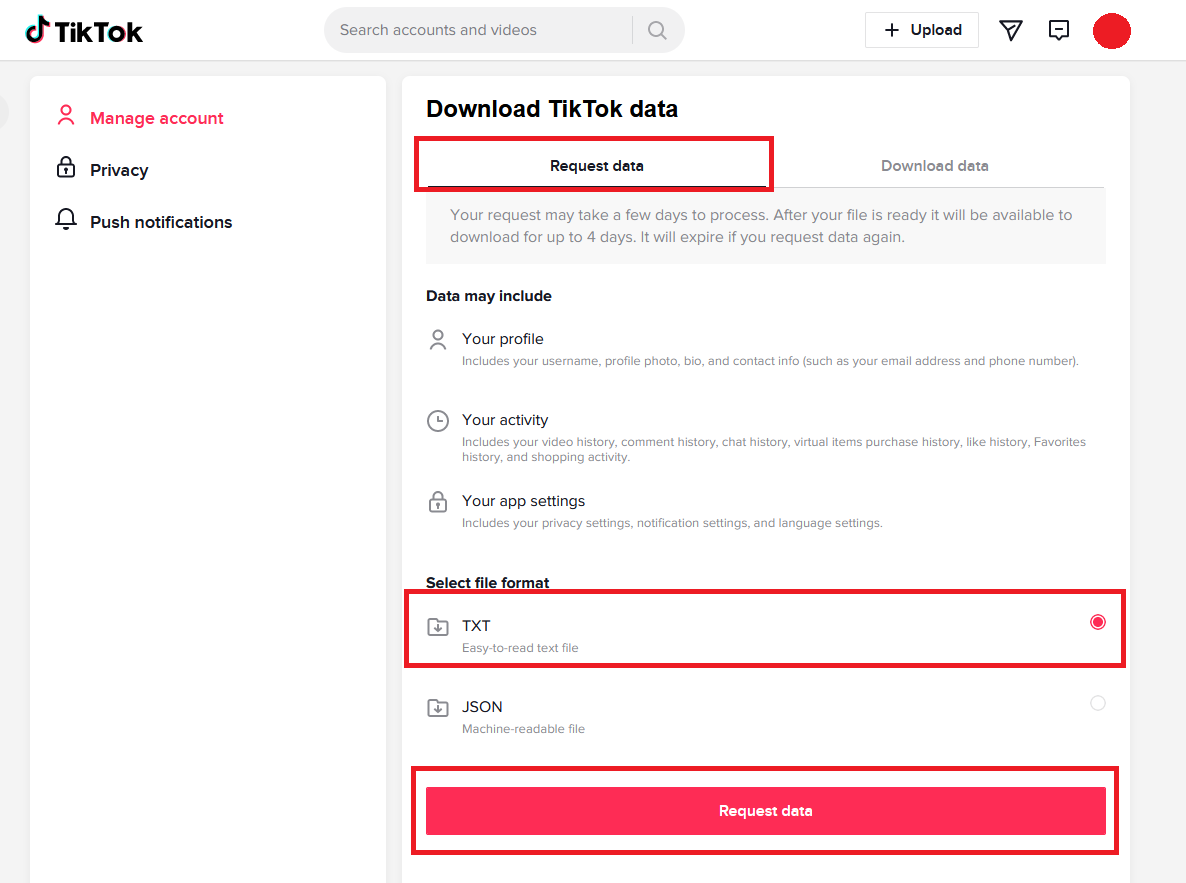
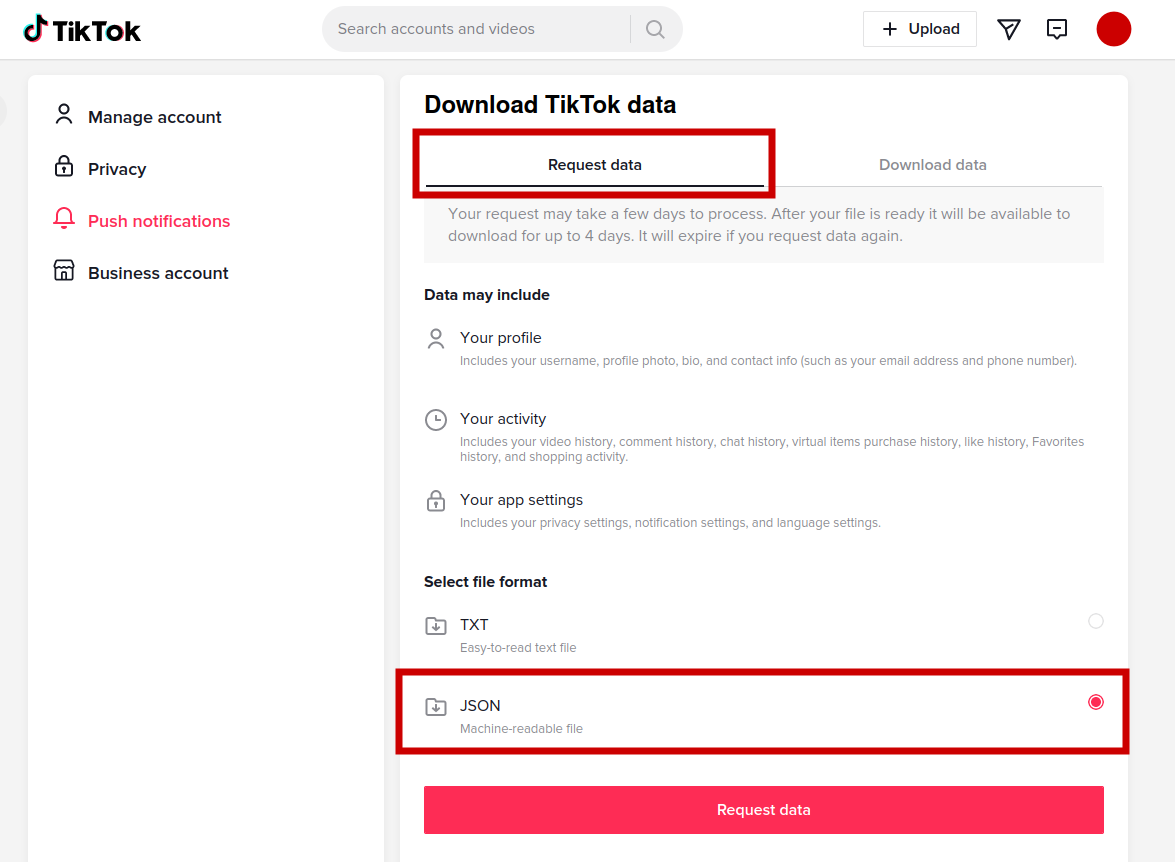
Using JSON instead of TXT Likes! Unlike TXT, JSON is a machine-readable file, meaning it'll be easier to get information and more reliable against changes by TikTok!

diff --git a/src/functions.py b/src/functions.py
@@ -4,8 +4,8 @@ import random
 import requests
 from log import logtofile as log
 
-
-def listas():
+## DEPRECATED - USE user_data.json instead
+def listas_deprecated():
     # Retrieves tiktok links and dates from Likes.txt
     i = 0
     arquivo = open("Likes.txt", "r", encoding="utf-8")
@@ -32,6 +32,21 @@ def listas():
     log("Likes.txt file was processed sucessfully")
     return listalinks, listadatas
 
+def listas():
+    # Retrieves tiktok likes and dates from user_data.json
+    import json
+    f = open('user_data.json')
+    linklist = []
+    datelist = []
+    data = json.load(f)
+
+    for i in data['Activity']["Like List"]['ItemFavoriteList']:
+        linklist.append(i['Link'])
+        datelist.append(i['Date'])
+    f.close()
+    log("user_data.json file was processed sucessfully")
+    return linklist, datelist
+
 
 # Unused function - Might be useful in future iterations of the project
 # https://github.com/nanometer5088/CLI-TikTok/commit/ad589d7b324042ee85a270625df3ad9f6f82ab8a
@@ -53,7 +68,7 @@ def detect_dead_link(url):
 
 
 def url_redirection(url):
-    # Tiktok links from the Likes.txt are shortened. They need to be redirected to the final link, which is done here.
+    # Tiktok links from the user_data.json are shortened. They need to be redirected to the final link, which is done here.
     headers = {
         "User-Agent": "Mozilla/5.0 (Windows NT 10.0; rv:109.0) Gecko/20100101 Firefox/109.0"
     }
@@ -62,5 +77,5 @@ def url_redirection(url):
 
 
 def randomvideo(urls):
-    # Chooses a random video from Likes.txt - Optional Feature
+    # Chooses a random video from user_data.json - Optional Feature
     return random.randint(0, (len(urls) - 1))

diff --git a/main.py b/main.py
@@ -153,13 +153,13 @@ except ValueError:
     log("The user entered an invalid non-numeric choice, and the software exited")
     print("The option you chose isn't valid.")
 
-    # Error handling for missing Likes.txt file
+    # Error handling for missing user_data.json file
 except FileNotFoundError:
     log(
-        "The user does not have a Likes.txt file, but chose an option that depends on it, so the software exited"
+        "The user does not have a user_data.json file, but chose an option that depends on it, so the software exited"
     )
     print(
-        "The 'Likes.txt' file was not found. Make sure it is in the program folder and try again."
+        "The 'user_data.json' file was not found. Make sure it is in the program folder and try again."
     )
 
     # Error handling for MPV media player or MPV not found in PATH

diff --git a/docs/HowToGetVideoList.md b/docs/HowToGetVideoList.md
@@ -1,4 +1,4 @@
-## How to get your `Likes.txt` file:
+## How to get your `user_data.json` file:
 
 #
 
@@ -10,7 +10,7 @@
 
 ![2](assets/2.png)
 
-### 3. Select `TXT` as the file format and request your data. This process might take a couple days. You'll be notified once it's ready to download.
+### 3. Select `JSON` as the file format and request your data. This process might take a couple days. You'll be notified once it's ready to download.
 
 ![3](assets/3.png)
 
@@ -18,6 +18,6 @@
 
 ![4](assets/4.png)
 
-### 5. Your liked videos will be in `Activity\Like List.txt`. Rename the file as `Likes.txt`
+### 5. Your liked videos will be inside the compressed file. Extract the file to the software folder.
 
 ![5](assets/5.png)

diff --git a/README.md b/README.md
@@ -33,13 +33,11 @@ This is a TikTok archiver and viewer. It supports watching or archiving your lik
 
 4) Extract **all** files to an empty folder.
 
-5) Move your `Likes.txt` file to the folder. Refer to [How to get video list](https://github.com/nanometer5088/CLI-TikTok/blob/main/docs/HowToGetVideoList.md) for more details on how to get yours.
+5) Move your `user_data.json` file to the folder. Refer to [How to get video list](https://github.com/nanometer5088/CLI-TikTok/blob/main/docs/HowToGetVideoList.md) for more details on how to get yours.
 
 6) Open a terminal within the folder.
 
-7) `pip install -r requirements.txt`
-
-8) `main.py`
+7) Run `main.py`
 
 ## Contributing
 
